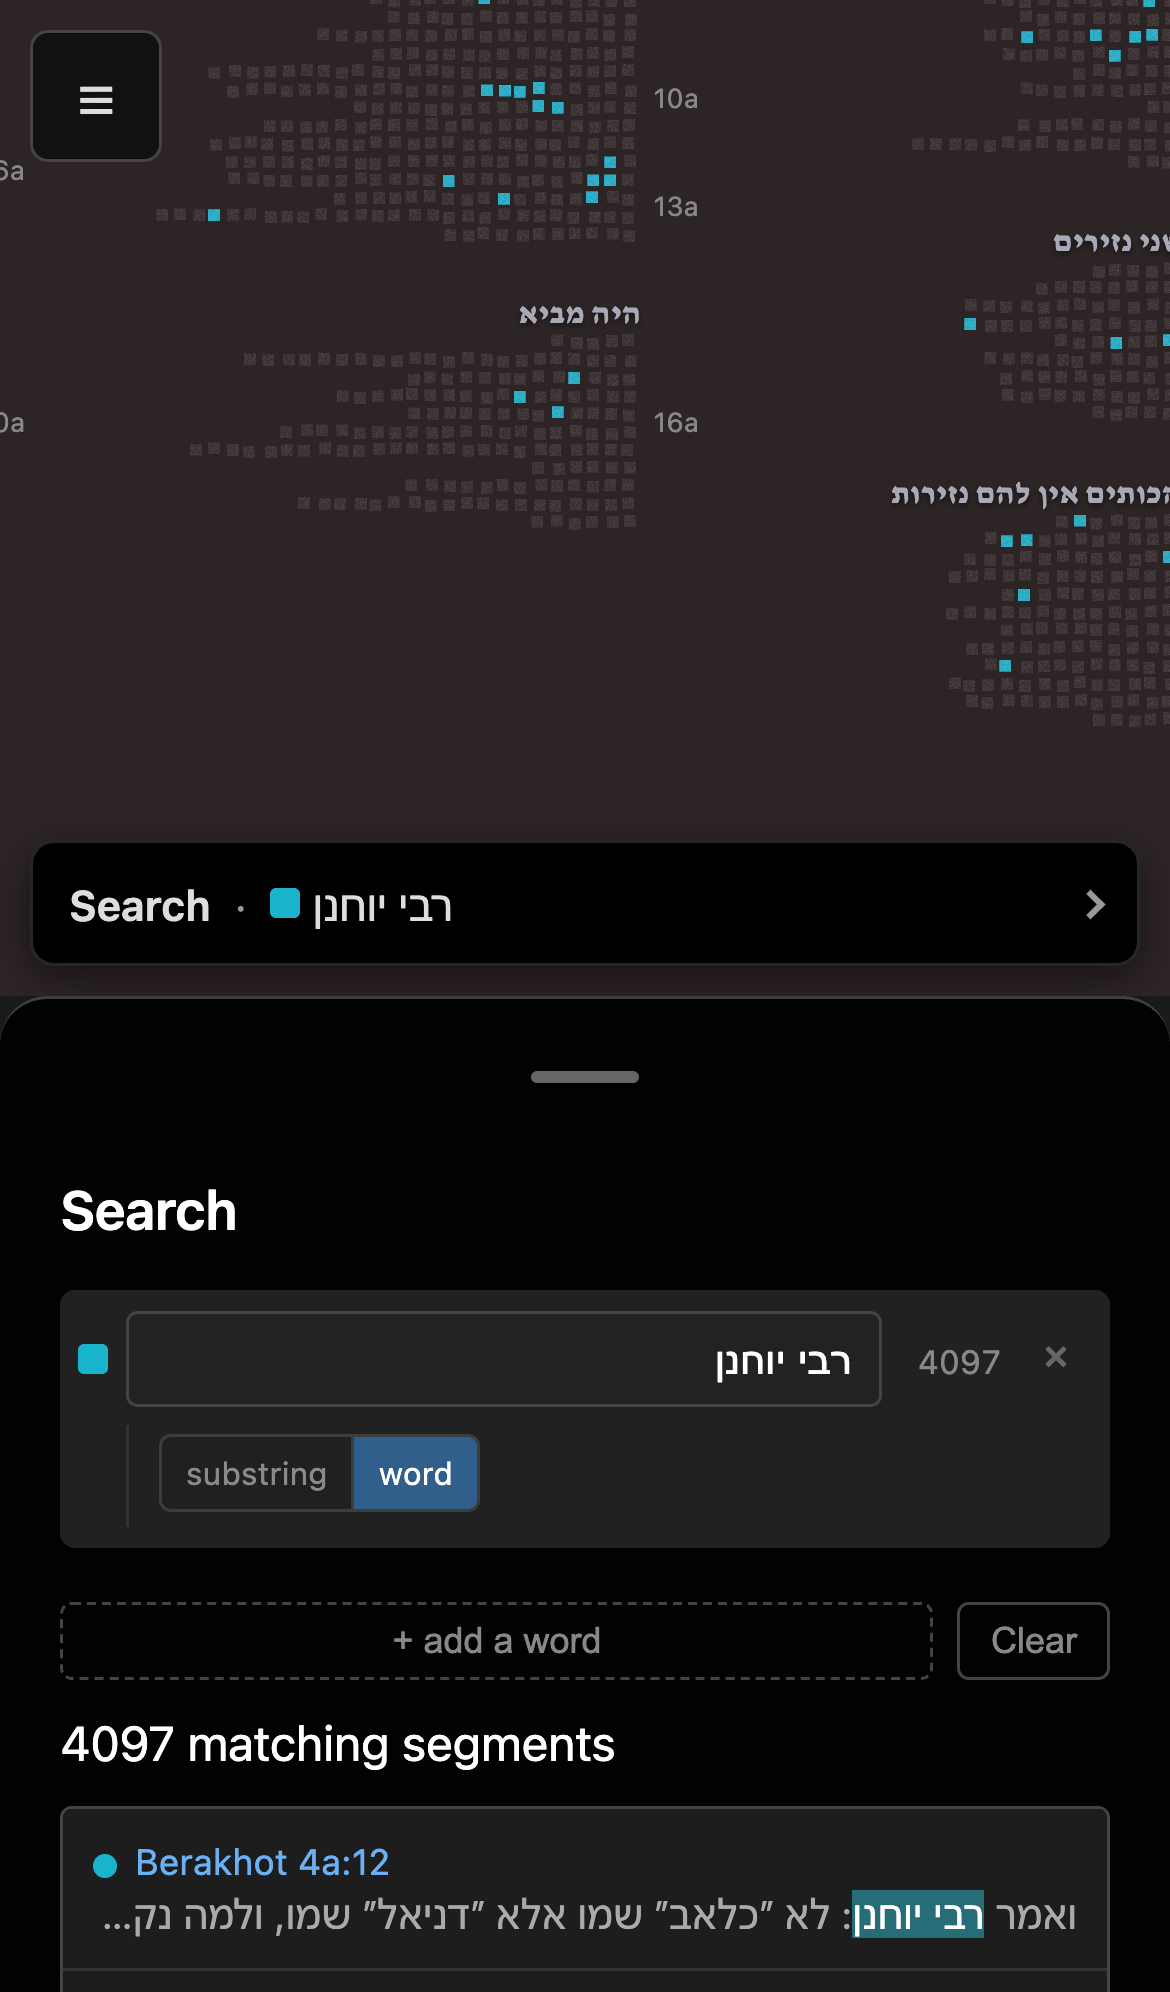
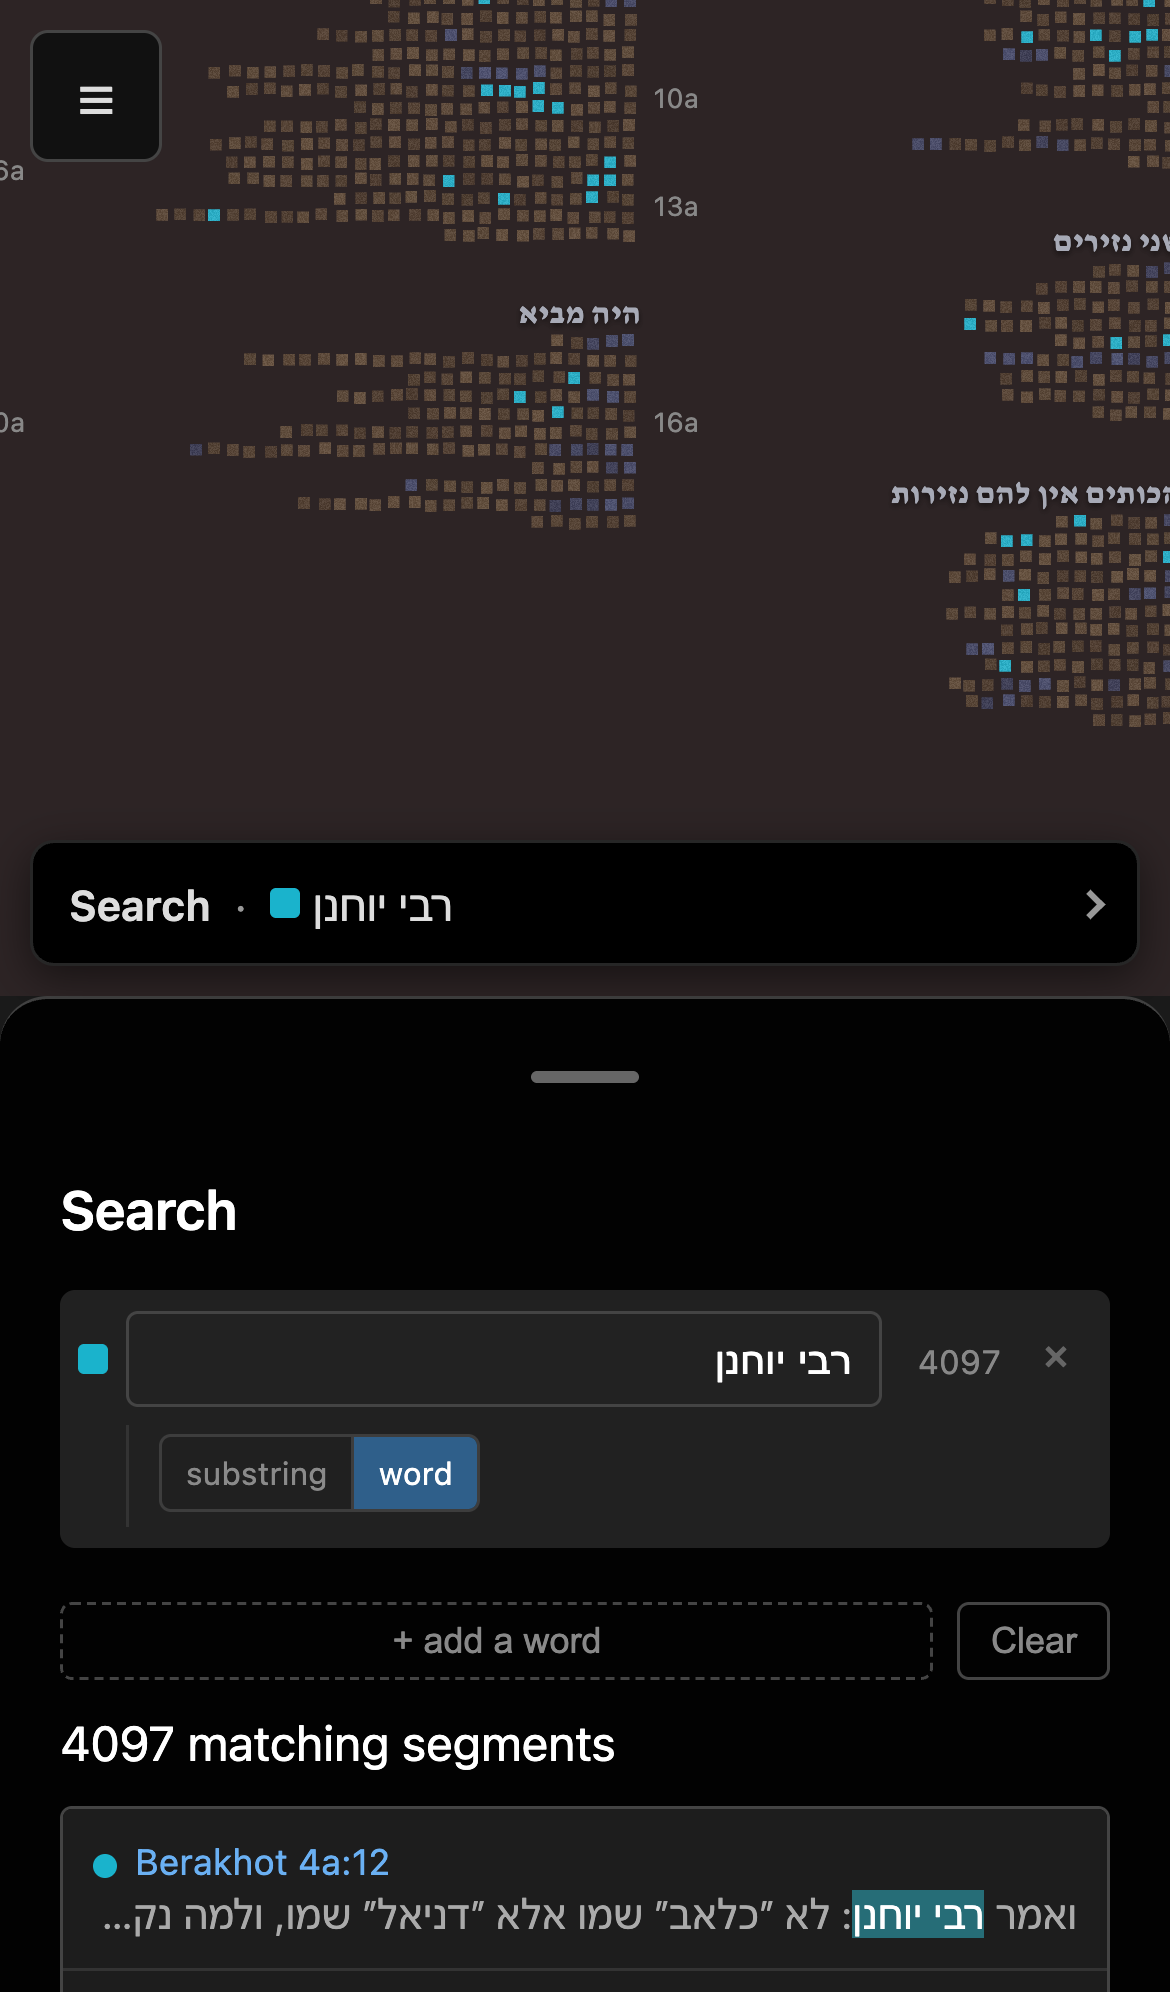
A Talmud search keeps Mishnah and Gemara in its unmatched segments
Search alone painted every segment it did not find grey, which hid the
Mishnah/Gemara split the Talmud's base colours draw. A text can now ask
for its base colour, dimmed, instead (searchKeepsBase); the Talmud does,
the Tanakh keeps its grey.

Claude-Session: https://claude.ai/code/session_01ArtaZH2sTcSMsYf17nN4Zz

diff --git a/packages/shell/src/itemColoring.ts b/packages/shell/src/itemColoring.ts
@@ -30,7 +30,8 @@ function brightenBands(color: ItemColor, factor: number): ItemColor {
  * layers are on: `SEARCH_NON_MATCH_DIM` (the default) while
  * search leads, 1 while the overlay leads; it does nothing with search alone,
  * which always dims to its own grey. With both on, a square neither colours
- * dims from its `base` colour.
+ * dims from its `base` colour. With search alone, a square it does not find
+ * is `unfound`'s colour (unfoundColor).
  */
 export function combineLayers(
   count: number,
@@ -38,6 +39,7 @@ export function combineLayers(
   overlay: readonly (ItemColor | null)[] | null,
   base: (index: number) => ItemColor,
   nonMatchDim: number = SEARCH_NON_MATCH_DIM,
+  unfound: (index: number) => ItemColor = () => DIMMED_GREY,
 ): Picture<ItemColor | null> {
   const colors: (ItemColor | null)[] = new Array(count);
   const rings: (ItemColor | null)[] = new Array(count).fill(null);
@@ -48,7 +50,7 @@ export function combineLayers(
     if (!search) {
       colors[i] = under;
     } else if (!overlay) {
-      colors[i] = match ?? DIMMED_GREY;
+      colors[i] = match ?? unfound(i);
     } else if (match) {
       colors[i] = under;
       rings[i] = match;
@@ -87,13 +89,14 @@ export function overlayColorsFor<T, S, D>(
   return overlay ? overlay.colorsFor(items, settings, hovered, data) : items.map(() => null);
 }
 
-/** The map's colours for the tools a view shows. `base` and `nonMatchDim` pass through to combineLayers. */
+/** The map's colours for the tools a view shows. The colour arguments pass through to combineLayers. */
 export function toolsPicture<T>(
   tools: Tools<T>,
   items: SpatialItem<T>[],
   hovered: SpatialItem<T> | null,
   base: (index: number) => ItemColor,
   nonMatchDim?: number,
+  unfound?: (index: number) => ItemColor,
 ): Picture<ItemColor | null> {
   const colorsOf = (on: ToolOnMap<T> | null) =>
     on && overlayColorsFor(on.tool, items, on.settings, hovered, on.data);
@@ -103,7 +106,16 @@ export function toolsPicture<T>(
     colorsOf(tools.overlay),
     base,
     nonMatchDim,
+    unfound,
   );
+}
+
+/** What search alone draws a square it does not find as: grey, or its own colour dimmed when `keepsBase`. */
+export function unfoundColor(
+  base: (index: number) => ItemColor,
+  keepsBase: boolean,
+): (index: number) => ItemColor {
+  return keepsBase ? (i) => brightenBands(base(i), SEARCH_NON_MATCH_DIM) : () => DIMMED_GREY;
 }
 
 /**

diff --git a/packages/shell/src/main.ts b/packages/shell/src/main.ts
@@ -80,7 +80,7 @@ import { tabTitle } from './tabTitle.ts';
 import { linkForScreen, pushes } from './linkForScreen.ts';
 import { getSidebarElements, updateSidebar } from './sidebar.ts';
 import { createMapGestures, escapeDoes, tapDoes } from './mapGestures.ts';
-import { toolsPicture, layerToRecompute, fillDefaultColors } from './itemColoring.ts';
+import { toolsPicture, layerToRecompute, fillDefaultColors, unfoundColor } from './itemColoring.ts';
 import { createOverlaySettings } from './overlays/settings.ts';
 import { NO_OVERLAY, type Overlay, type Tools } from './overlays/types.ts';
 import { prebuildCompleted } from './overlays/prebuild.ts';
@@ -204,6 +204,7 @@ export async function createApp<I extends MapItem, S>(source: MapText<I, S>): Pr
   const squares = indexItems(items);
   const baseColors = items.map((item, i) => text.baseColor(item, i));
   const base = (i: number): ItemColor => baseColors[i];
+  const unfound = unfoundColor(base, text.searchKeepsBase ?? false);
   // A picture with its holes filled with each square's base colour.
   const fill = (picture: Picture<ItemColor | null>): Picture<ItemColor> =>
     fillDefaultColors(picture, base);
@@ -351,7 +352,7 @@ export async function createApp<I extends MapItem, S>(source: MapText<I, S>): Pr
 
   /** The map exploring shows: the tools as they stand, the front one in front. */
   function explorePicture(): Picture<ItemColor | null> {
-    return toolsPicture(toolsNow(), items, hoveredItem, base, dimFor(frontTool));
+    return toolsPicture(toolsNow(), items, hoveredItem, base, dimFor(frontTool), unfound);
   }
 
   function applyTools(): void {
@@ -414,7 +415,7 @@ export async function createApp<I extends MapItem, S>(source: MapText<I, S>): Pr
   function blendColors(): ColorLayer | null {
     if (driver.by !== 'story' || !driver.blend) return null;
     const { from, to, t } = driver.blend;
-    return computeBlendedColors(from, to, t, items, hoveredItem, loaded, base, textTools);
+    return computeBlendedColors(from, to, t, items, hoveredItem, loaded, base, textTools, unfound);
   }
 
   function blendTransition(): void {
@@ -1402,6 +1403,7 @@ export async function createApp<I extends MapItem, S>(source: MapText<I, S>): Pr
         loaded,
         base,
         textTools,
+        unfound,
       ),
     );
   }

diff --git a/packages/shell/src/scrollytelling/overlayBlender.ts b/packages/shell/src/scrollytelling/overlayBlender.ts
@@ -76,6 +76,7 @@ export function pictureForStop<I extends MapItem>(
   loaded: Loaded,
   base: (index: number) => ItemColor,
   tools: TextTools<I>,
+  unfound?: (index: number) => ItemColor,
 ): Picture {
   const { search } = tools;
   const overlay = overlayOf(stop, tools);
@@ -102,7 +103,10 @@ export function pictureForStop<I extends MapItem>(
     settingsFromLink(search, stop.searchParams ?? {}),
     loaded,
   );
-  const picture = fillDefaultColors(toolsPicture(shown, items, hovered, base), base);
+  const picture = fillDefaultColors(
+    toolsPicture(shown, items, hovered, base, undefined, unfound),
+    base,
+  );
   if (!byHover) cache.set(key, picture);
   return picture;
 }
@@ -119,13 +123,14 @@ export function computeBlendedColors<I extends MapItem>(
   loaded: Loaded,
   base: (index: number) => ItemColor,
   tools: TextTools<I>,
+  unfound?: (index: number) => ItemColor,
 ): ColorLayer {
   if (fromStop === toStop || t === 0)
-    return still(pictureForStop(fromStop, items, hovered, loaded, base, tools));
-  if (t >= 1) return still(pictureForStop(toStop, items, hovered, loaded, base, tools));
+    return still(pictureForStop(fromStop, items, hovered, loaded, base, tools, unfound));
+  if (t >= 1) return still(pictureForStop(toStop, items, hovered, loaded, base, tools, unfound));
   return {
-    from: pictureForStop(fromStop, items, hovered, loaded, base, tools),
-    to: pictureForStop(toStop, items, hovered, loaded, base, tools),
+    from: pictureForStop(fromStop, items, hovered, loaded, base, tools, unfound),
+    to: pictureForStop(toStop, items, hovered, loaded, base, tools, unfound),
     t,
   };
 }

diff --git a/test/combineLayers.test.ts b/test/combineLayers.test.ts
@@ -5,6 +5,7 @@ import {
   fillDefaultColors,
   getDefaultColor,
   toolsPicture,
+  unfoundColor,
 } from '../packages/shell/src/itemColoring.ts';
 import { DIMMED_GREY, SEARCH_NON_MATCH_DIM } from '../packages/shell/src/constants.ts';
 import { createVerse, testOverlay } from '../apps/tanakh/test/helpers/fixtures.ts';
@@ -40,6 +41,14 @@ describe('combineLayers', () => {
         ALONE,
         ALONE,
         ALONE,
+      ]);
+    });
+
+    it('dims a square it does not match to the colour the text gives one', () => {
+      const unfound = (i: number): Color => (i === 0 ? RED : BLUE);
+      expect(combineLayers(2, [null, CYAN], null, getDefaultColor, DIM, unfound).colors).toEqual([
+        RED,
+        CYAN,
       ]);
     });
 
@@ -191,5 +200,15 @@ describe('toolsPicture', () => {
     );
 
     expect(picture.colors).toEqual([RED]);
+  });
+});
+
+describe('unfoundColor', () => {
+  it('is grey unless the text keeps its base colour', () => {
+    expect(unfoundColor(() => BLUE, false)(0)).toEqual(DIMMED_GREY);
+  });
+
+  it("dims the text's base colour when it keeps it", () => {
+    expect(unfoundColor(() => BLUE, true)(0)).toEqual(scaled(BLUE, DIM));
   });
 });

diff --git a/packages/shell/src/app/text.ts b/packages/shell/src/app/text.ts
@@ -52,6 +52,8 @@ export interface OpenText<I extends MapItem, S = unknown> {
   startCamera(viewport: Viewport): Camera;
   /** A square's colour while no tool colours it. */
   baseColor(item: I, index: number): ItemColor;
+  /** Whether a search dims the squares it does not find to their base colour rather than grey. */
+  searchKeepsBase?: boolean;
   /** Draws the labels into `container`; the function returned moves them with the map. */
   labels(container: HTMLElement): (offset: ScreenPoint, zoom: number) => void;
   /** The file a square's text is in. The shell downloads it when the square's popup first shows. */

diff --git a/apps/talmud/src/text.ts b/apps/talmud/src/text.ts
@@ -88,6 +88,7 @@ export const talmudText: MapText<TalmudLayoutItem, TermSettings> = {
       },
 
       baseColor: (item) => mishnahOrGemaraColor(structure, item),
+      searchKeepsBase: true,
 
       labels(container) {
         const moveMarks = createTalmudLabels(
